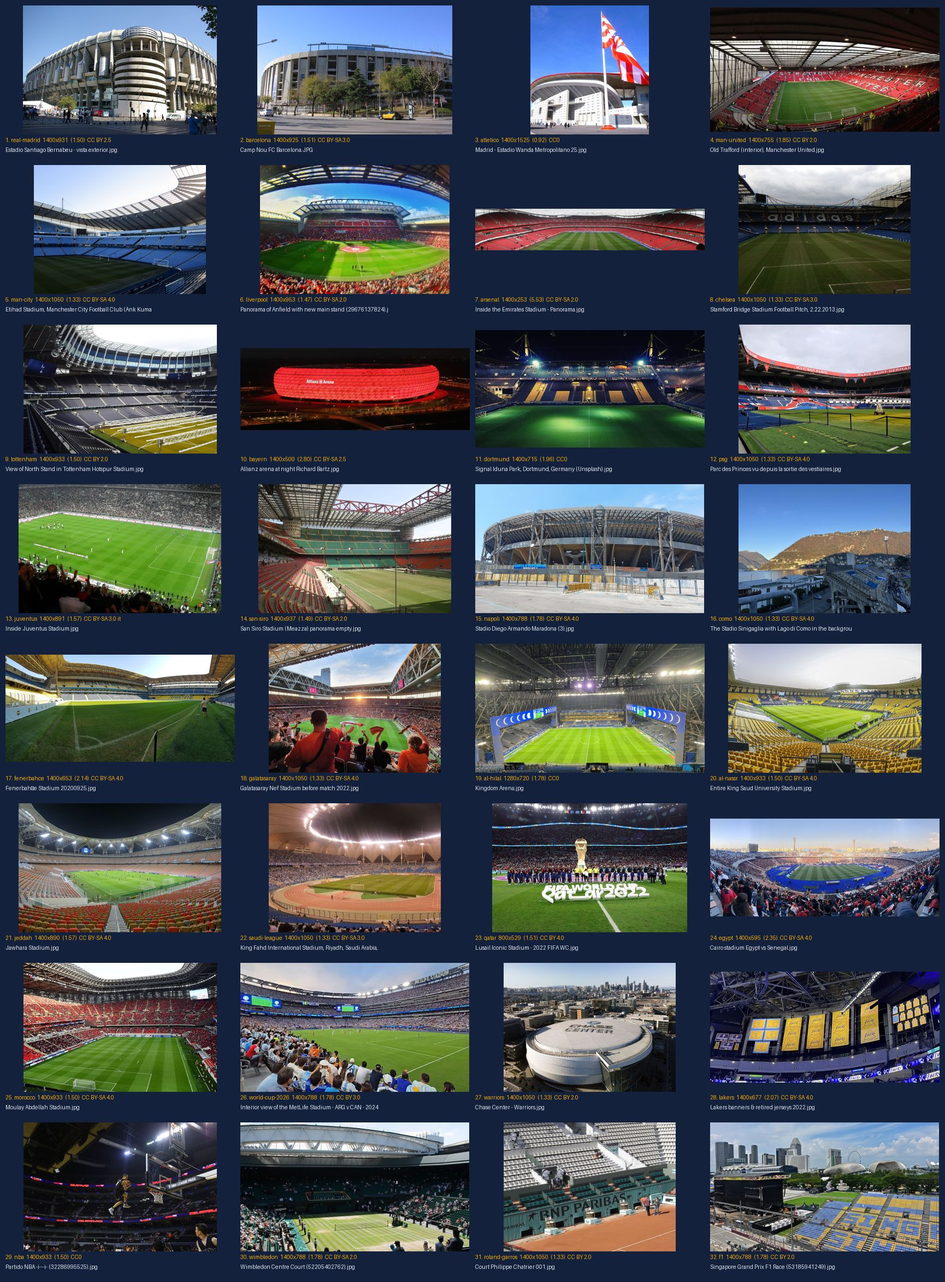
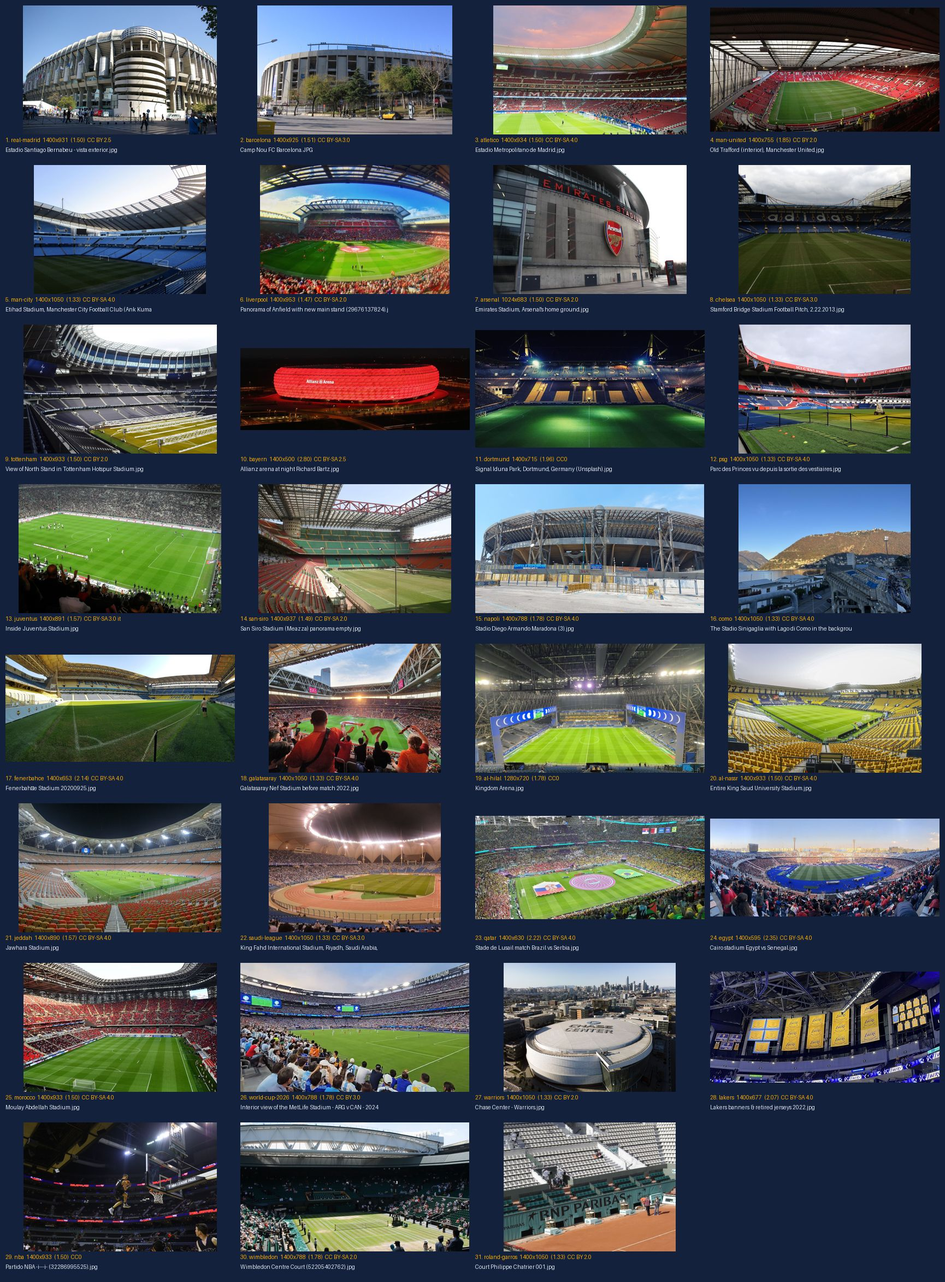
نظام الصور: لوحة مراجعة بنك الصور وتوثيقه في سجل المشروع
Claude-Session: https://claude.ai/code/session_015ZCZKgBbVnKvqyfnico8MF

Changed region(s): [[0.4994, 0.0, 0.7491, 0.2489], [0.7491, 0.8713, 0.9988, 0.9957], [0.4994, 0.6223, 0.7491, 0.7468]]

diff --git a/docs/PROJECT_LOG.md b/docs/PROJECT_LOG.md
@@ -234,3 +234,14 @@
 - بطلب المالك: أُفرغ linkedin_url في site.yaml (الرابط القديم محفوظ في تعليق بجانبه). اختفى من التذييل وصفحة التواصل وروابط اسم الكاتب.
 - زر «مشاركة على لينكدإن» تحت المقالات باقٍ (يشارك المقال، لا يربط بالحساب).
 - معلّق: ترتيب وسائل التواصل والحسابات المرتبطة لاحقاً.
+
+## نظام الصور (5 نوفمبر 2026)
+ثلاث طبقات، تُجرَّب بالترتيب:
+1. **بنك الصور** (config/image_bank.yaml): 31 صورة حرة راجعها المحرر بالعين، لأكثر الأندية والملاعب والبطولات ظهوراً (أوروبا، الخليج، مصر، المغرب، كأس العالم 2026، NBA، التنس). الخبر الذي ليست له صورة يأخذ صورة أول اسم يظهر في عنوانه ثم مقتطفه تلقائياً. ويمكن طلب صورة بعينها بـ `bank: real-madrid`، وإيقاف ذلك بـ `no_image: true`.
+   - المطابقة بالأسماء الكاملة فقط، مع قائمة استثناء: «أوكلاهوما سيتي» لا يطابق مانشستر سيتي، و«الاتحاد الدولي» لا يطابق اتحاد جدة، و«الهلال الأحمر» لا يطابق الهلال، و«إنتر ميامي» لا يطابق إنتر.
+   - لوحة المراجعة: `python tools/bank_sheet.py` ← docs/image-bank.jpg. وتُراجع كل صورة جديدة قبل اعتمادها.
+   - لإضافة نادٍ: مدخل جديد باسم ملف من ويكيميديا، ثم دفعه إلى GitHub الذي يجلب الصورة، ثم تشغيل لوحة المراجعة.
+2. **بحث أذكى في ويكيميديا** (`commons: search:كلمات`): يفحص 20 نتيجة، ويستبعد الصور الطولية والأقل من 1200 نقطة وغير الحرة والمأخوذة قبل 1990، ويفضّل الأقرب إلى 16:9 والأحدث. أما `search-old:` فيقبل الصور التاريخية، وهو لقسم الثقافة والتاريخ.
+3. **مكتبة الصور التوضيحية** (docs/AI_IMAGE_PROMPTS.md): 12 وصفاً جاهزاً بأسلوب موحد، تولّدها أنت. لا شعارات ولا أشخاص حقيقيين، وعليها الإفصاح دائماً. **معلّق: بانتظار توليدها.**
+- لم يُدرج مدخل للفورمولا 1، لأن صورها الحرة تُظهر سيارة سائق بعينه مغطاة بالرعاة، فتُغطى بالمكتبة التوضيحية.
+- اختُبرت صور سابقة ورُفضت: لاعبون في صور طولية، وصورة فريق عام 1910، ولقطات فيديو ضعيفة، ومتجر نادٍ، ومجسم ملعب، وملاعب قيد الإنشاء، وصورة لاعب تنس بعينه.
